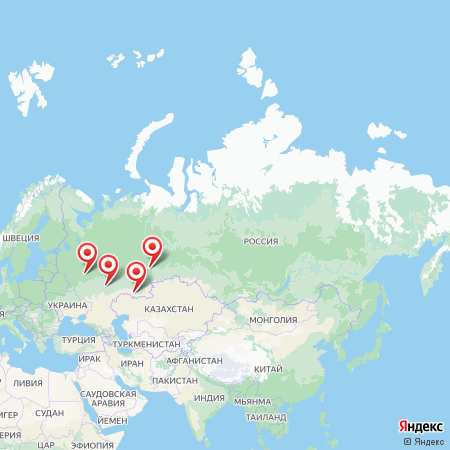
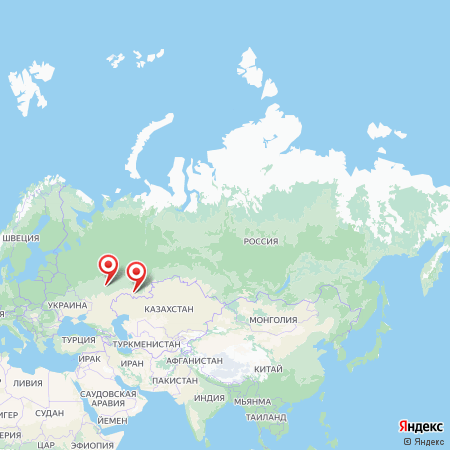
posl_ver

Changed region(s): [[0.3111, 0.4978, 0.3733, 0.5911], [0.1556, 0.5289, 0.2178, 0.6222]]

diff --git a/templates/index.html b/templates/index.html
@@ -47,9 +47,9 @@
 									<ul id="nav" class="nav navbar-nav">
 										<li class="current"><a href="#slider">Основная</a></li>
 										<li><a href="#about">О НАС</a></li>
-										<li><a href="#skill">Статистика</a></li>
-										<li><a href="#story">История инвалидов</a></li>
-										<li><a href="#latest-works">Чем мы занимаемся, в свободное от домашки время</a></li>
+										<li><a href="#skill">Многообразие населения</a></li>
+										<li><a href="#story">Инклюзия образования</a></li>
+										<li><a href="#latest-works">Уроки настоящего</a></li>
 										<li><a href="#contact">Опрос</a></li>
 										<li><a href="#map">Карта месторождения</a></li>
 									</ul>
@@ -119,7 +119,7 @@
 				<div class="row">
 					<div class="col-md-2 col-sm-12 col-xs-12">
 						<div class="section-title">
-							<h2>Данные<span>       Школ</span></h2>
+							<h2>Многообразие<span>       Населения</span></h2>
 						</div>
 					</div>
 					<div class="col-md-10 col-sm-12 col-xs-12">
@@ -127,54 +127,26 @@
 							<div class="row">
 								<div class="col-md-6 col-sm-12 col-xs-12">
 									<div class="skill-content">
-										<h3>Что мы знаем об инклюзии в нашей школе?</h3>
-										<p><b>Мы собрали данные, полученные от детей из разных школ</b></p>
-										<p>Каждый голос был важен для нас.</p>
-										<p><b>На данный момент статистика показывает, что многие школы проводят мероприятия инклюзии</b></p>
+										<h3></h3>
+										<p><b></b></p>
+										<p></p>
+										<p><b></b></p>
 									</div>
 								</div>
 								<div class="col-md-6 col-sm-12 col-xs-12">
 									<div class="skill-main">
+										{% for n,pr in anal %}
 										<div class="single-skill">
 											<div class="skill-title">
-												<h4>Инвалиды</h4>
+												<h4>{{n}}</h4>
 											</div>
 											<div class="progress two">
-												<div class="progress-bar" data-percent="99">
-													<span>99%</span>
+												<div class="progress-bar" data-percent={{pr}}>
+													<span>{{pr}}%</span>
 												</div>
 											</div>
 										</div>
-										<div class="single-skill">
-											<div class="skill-title">
-												<h4>Женщины</h4>
-											</div>
-											<div class="progress two">
-												<div class="progress-bar" data-percent="58">
-													<span>58%</span>
-												</div>
-											</div>
-										</div>
-										<div class="single-skill">
-											<div class="skill-title">
-												<h4>Двоишники<h4>
-											</div>
-											<div class="progress two">
-												<div class="progress-bar" data-percent="56">
-													<span>56%</span>
-												</div>
-											</div>
-										</div>
-										<div class="single-skill">
-											<div class="skill-title">
-												<h4>Боготворящие c++</h4>
-											</div>
-											<div class="progress two">
-												<div class="progress-bar" data-percent="45">
-													<span>45%</span>
-												</div>
-											</div>
-										</div>
+										{% endfor %}
 									</div>
 								</div>
 							</div>
@@ -191,7 +163,7 @@
 				<div class="row">
 					<div class="col-xs-12">
 						<div class="section-title">
-							<h2>История<span> нашей школы</span></h2>
+							<h2>Инклюзия <span> образования</span></h2>
 						</div>
 					</div>
 				</div>
@@ -200,38 +172,38 @@
 						<div class="story-content">
 							<!-- single-story -->
 							<div class="single-story">
-								<span class="year wow fadeInLeft" data-wow-duration="0.8s" data-wow-delay="0.4s">2015</span>
+								<span class="year wow fadeInLeft" data-wow-duration="0.8s" data-wow-delay="0.4s">{{ans[0]}}</span>
 								<div class="inner-content wow fadeInUp" data-wow-duration="0.8s" data-wow-delay="0.4s">
-									<h3>Самый первый проект по инклюзии</h3>
-									<p>Мы набрали 0 балов</p>
-									<p class="p2">Мы не победили, оттого очень расстроились. Теперь сидим - грустим</p>
+									<h3>Опрошенных чувствуют себя ущемленными</h3>
+									<p>И эти дети страдают</p>
+									<p class="p2">Они чувствуют себя ущемленными</p>
 								</div>
 							</div>
 							<!-- single-story -->
 							<div class="single-story">
-								<span class="year wow fadeInLeft" data-wow-duration="0.8s" data-wow-delay="0.6s">2019</span>
+								<span class="year wow fadeInLeft" data-wow-duration="0.8s" data-wow-delay="0.6s">{{ans[1]}}</span>
 								<div class="inner-content wow fadeInUp" data-wow-duration="0.8s" data-wow-delay="0.6s">
-									<h3>Второй проект</h3>
-									<p>И наконец-то удачный</p>
-									<p class="p2">Мы смогли набрать 1 балл из 249. У нас появились амбиции</p>
+									<h3>Опрошенных - за инклюзивность</h3>
+									<p>И эти дети страдают</p>
+									<p class="p2">Они чувствуют себя ущемленными</p>
 								</div>
 							</div>
 							<!-- single-story -->
 							<div class="single-story">
-								<span class="year wow fadeInLeft" data-wow-duration="0.8s" data-wow-delay="0.8s">2020</span>
+								<span class="year wow fadeInLeft" data-wow-duration="0.8s" data-wow-delay="0.8s">{{ans[2]}}</span>
 								<div class="inner-content wow fadeInUp" data-wow-duration="0.8s" data-wow-delay="0.8s">
-									<h3>Очередной провал</h3>
-									<p>Мы задумались об инклюзии</p>
-									<p class="p2">Инклюзия важна. Она спасает нас</p>
+									<h3>Опрошенных согласны учиться в одном классе с инвалидом</h3>
+									<p>И эти дети страдают</p>
+									<p class="p2">Они чувствуют себя ущемленными</p>
 								</div>
 							</div>
 							<!-- single-story -->
 							<div class="single-story">
-								<span class="year wow fadeInLeft" data-wow-duration="0.8s" data-wow-delay="1s">2021</span>
+								<span class="year wow fadeInLeft" data-wow-duration="0.8s" data-wow-delay="1s">{{ans[3]}}</span>
 								<div class="inner-content wow fadeInUp" data-wow-duration="0.8s" data-wow-delay="1s">
-									<h3>Уроки настоящего</h3>
-									<p>Мы набрали 1 балл из 6</p>
-									<p class="p2">Да-да, вам не показалось. Мы покоряем новые вершины</p>
+									<h3>Опрошенных - инвалиды</h3>
+									<p>И эти дети страдают</p>
+									<p class="p2">Они чувствуют себя ущемленными</p>
 								</div>
 							</div>
 						</div>
@@ -247,7 +219,7 @@
 				<div class="row">
 					<div class="col-xs-12">
 						<div class="section-title">
-							<h2>My <span>Portfolio</span></h2>
+							<h2>УРОКИ<span> НАСТОЯЩЕГО</span></h2>
 						</div>
 					</div>
 				</div>
@@ -355,13 +327,12 @@
 						<div class="form-head">
 							<form class="form" action="#skill" method="post">
 <form class="survey_form" method="post">
-                                    <input class="form-control" id="age" placeholder="Возраст" name="age"><Br>
+									<input class="form-control" id="birthplace" placeholder="Место рождения" name="birthplace"><Br>
                                     <div class="form-group">
                                         <label>Выберите свой пол</label>
                                         <p><input type="radio" name="gender" value="Женщина" style="height:20px; width:20px; vertical-align: middle;">Женский<Br>
                                         <input type="radio" name="gender" value="Мужчина" style="height:20px; width:20px; vertical-align: middle;">Мужской<Br>
                                         </div>
-                                    <input class="form-control" id="birthplace" placeholder="Место рождения" name="birthplace"><Br>
                                     <div class="form-group">
 									<label>Национальность</label><Br>
 									<select id="nationality" name="nationality">
@@ -375,7 +346,11 @@
                                         <p><input type="radio" name="disability" value=1 style="height:20px; width:20px; vertical-align: middle;">Да<Br>
                                         <input type="radio" name="disability" value=0 style="height:20px; width:20px; vertical-align: middle;">Нет<Br>
                                         </div>
-                                    <button type="submit" class="btn btn-secondary">Отправить</button>
+									<p><input type="checkbox" name="f1" value="1" style="height:20px; width:20px;">  Я чувствую/чувствовал себя ущемленным</p>
+									<p><input type="checkbox" name="f2" value="1" style="height:20px; width:20px;">  Я - за инклюзивность в образовании</p>
+									<p><input type="checkbox" name="f3" value="1" style="height:20px; width:20px;">  Я согласен учиться в одном классе с инвалидом</p>
+                                    <Br>
+									<button type="submit" class="btn btn-secondary">Отправить</button>
                                 </form>
 </form>
 						</div>
@@ -392,11 +367,17 @@
 				<div class="row">
 					<div class="about-content">
 						<div class="col-md-2 col-sm-2 col-xs-12">
+						</div>
+						<div class="col-md-6  col-sm-6 col-xs-12">
+							<br>
+							<br>
+							<br>
 							<div class="section-title">
 								<h2>Карта<span> Рождения</span></h2>
 							</div>
-						</div>
-						<div class="col-md-6  col-sm-6 col-xs-12">
+							<br>
+							<br>
+							<br>
 							<div class="single-about">
 								<h3>На ней вы можете видеть места рождения других людей, принявших участие в опросе</h3>
 							</div>
@@ -434,7 +415,7 @@
 				<div class="container">
 					<div class="row">
 						<div class="col-md-12">
-							<p>© 2021 Сделано Настей</a></p>
+							<p>© 2021 Сделано Вечеренко Анастасией</a></p>
 						</div>
 					</div>
 				</div>

diff --git a/main.py b/main.py
@@ -21,8 +21,8 @@ def returne_coords(find):
 
 def statistics():
     db_sess = db_session.create_session()
-    places = db_sess.query(Survey).all()
-    coords = list(set([returne_coords(i.birthplace) for i in places]))
+    places = db_sess.query(Survey.birthplace).all()
+    coords = list(set([returne_coords(i[0]) for i in places]))
     map_request = "http://static-maps.yandex.ru/1.x/?ll=87.182329,64.202375&z=2&size=450,450&l=map&pt="
     map_request += '~'.join(coords)
     response = requests.get(map_request)
@@ -31,19 +31,54 @@ def statistics():
             file.write(response.content)
 
 
+def analytics():
+    f = [int(i) for i in open("static/results.txt", mode='rt', encoding='utf8').read().split()]
+    f2 = [int(i) for i in open("static/nation.txt", mode='rt', encoding='utf8').read().split()]
+    nation = ['русские', 'башкиры', 'белорусы', 'татары', 'чеченцы', 'чуваши', 'украинцы', 'армяне', 'другое']
+    return [round(f[i] / f[0] * 100, 2) if f[0] > 0 else 0.0 for i in range(1, 5)],\
+           [[nation[i], round(f2[i] / f[0] * 100, 2) if f[0] > 0 else 0.0] for i in range(9)]
+
+
 @app.route('/', methods=['GET', 'POST'])
 def main_window():
+    nation = ['русские', 'башкиры', 'белорусы', 'татары', 'чеченцы', 'чуваши', 'украинцы', 'армяне', 'другое']
     if request.method == 'GET':
-        #statistics()
-        nation = ['русский', 'казах', 'монгол']
-        return render_template('index.html', nation=nation)
+        statistics()
+        ans, anal = analytics()
+        return render_template('index.html', nation=nation, ans=ans, anal=anal)
     db_sess = db_session.create_session()
+    ans = list(request.form)
+    fr = open("static/results.txt", mode='rt', encoding='utf8').read().split()
+    fr[0] = str(int(fr[0]) + 1)
+    fw = open("static/results.txt", mode='wt', encoding='utf8')
+    f1, f2, f3 = False, False, False
+    if 'f1' in ans:
+        f1 = True
+        fr[1] = str(int(fr[1]) + 1)
+    if 'f2' in ans:
+        fr[2] = str(int(fr[2]) + 1)
+        f2 = True
+    if 'f3' in ans:
+        fr[3] = str(int(fr[3]) + 1)
+        f3 = True
+    if request.form['disability'] == '1':
+        fr[4] = str(int(fr[4]) + 1)
+    f1r = open("static/nation.txt", mode='rt', encoding='utf8').read().split()
+    f1w = open("static/nation.txt", mode='wt', encoding='utf8')
+    ind = nation.index(request.form['nationality'])
+    f1r[ind] = str(int(f1r[ind]) + 1)
+    f1w.write(' '.join(f1r))
+    f1w.close()
+    fw.write(' '.join(fr))
+    fw.close()
     new_survey = Survey(
-        age=int(request.form['age']),
         gender=request.form['gender'],
         birthplace=request.form['birthplace'],
         nationality=request.form['nationality'],
-        disability=bool(int(request.form['disability']))
+        disability=bool(int(request.form['disability'])),
+        f1=f1,
+        f2=f2,
+        f3=f3
     )
     db_sess.add(new_survey)
     db_sess.commit()
@@ -51,4 +86,4 @@ def main_window():
 
 
 if __name__ == '__main__':
-    app.run()
+    app.run(port=80)

diff --git a/data/surveys.py b/data/surveys.py
@@ -9,8 +9,10 @@ class Survey(SqlAlchemyBase, UserMixin, SerializerMixin):
 
     id = sqlalchemy.Column(sqlalchemy.Integer,
                            primary_key=True, autoincrement=True)
-    age = sqlalchemy.Column(sqlalchemy.Integer, nullable=True)
     gender = sqlalchemy.Column(sqlalchemy.String, nullable=True)
     birthplace = sqlalchemy.Column(sqlalchemy.String, nullable=True)
     nationality = sqlalchemy.Column(sqlalchemy.String, nullable=True)
     disability = sqlalchemy.Column(sqlalchemy.Boolean, nullable=True)
+    f1 = sqlalchemy.Column(sqlalchemy.Boolean, nullable=True)
+    f2 = sqlalchemy.Column(sqlalchemy.Boolean, nullable=True)
+    f3 = sqlalchemy.Column(sqlalchemy.Boolean, nullable=True)
